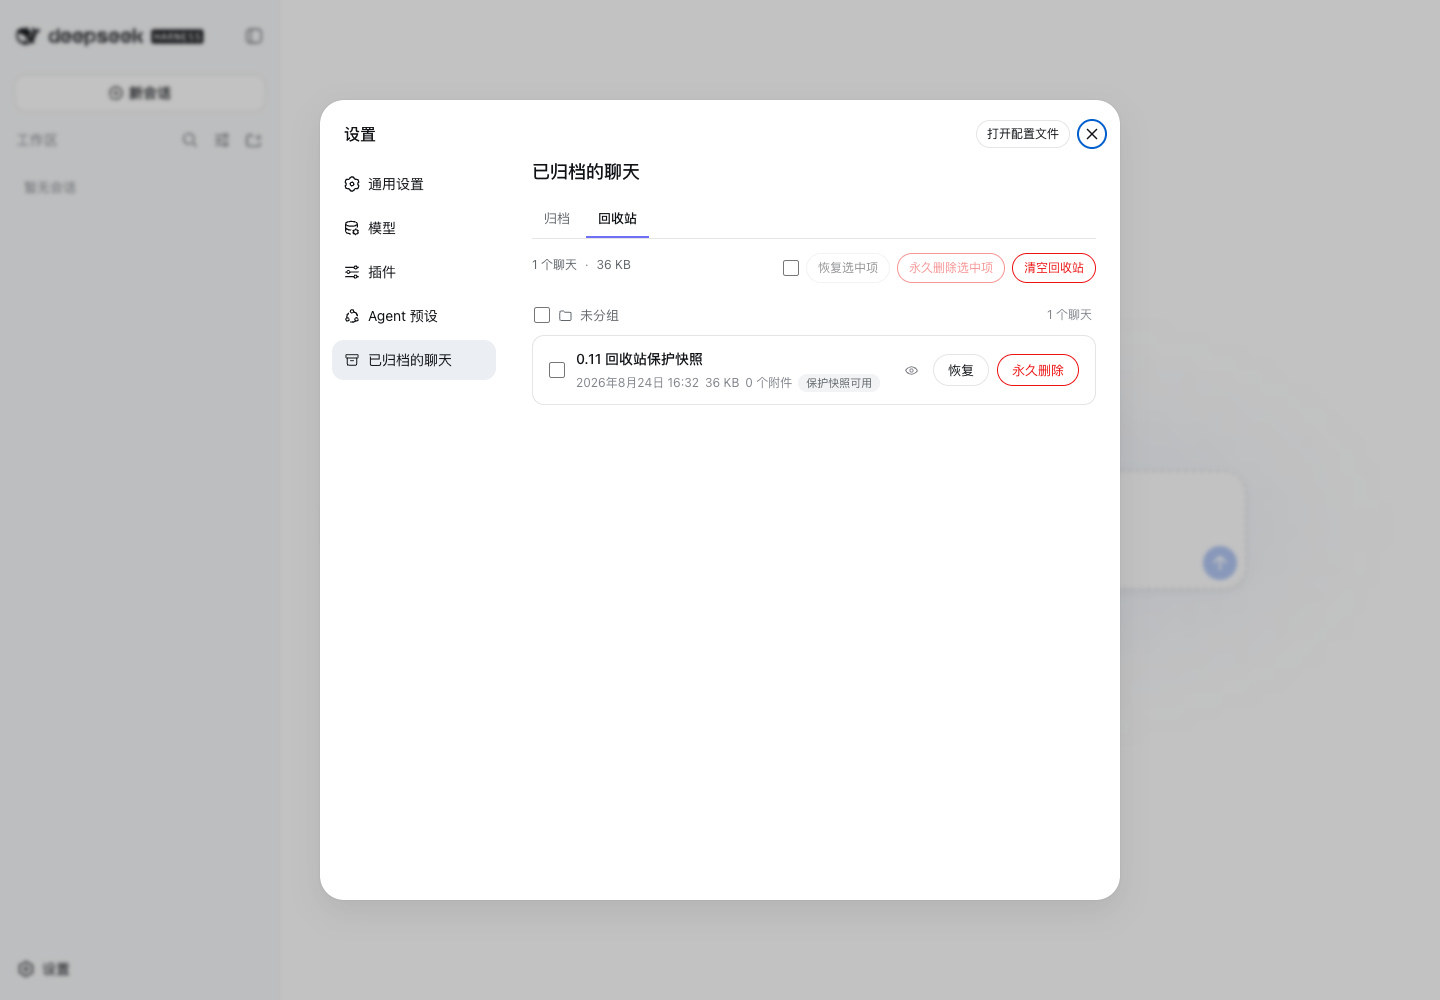
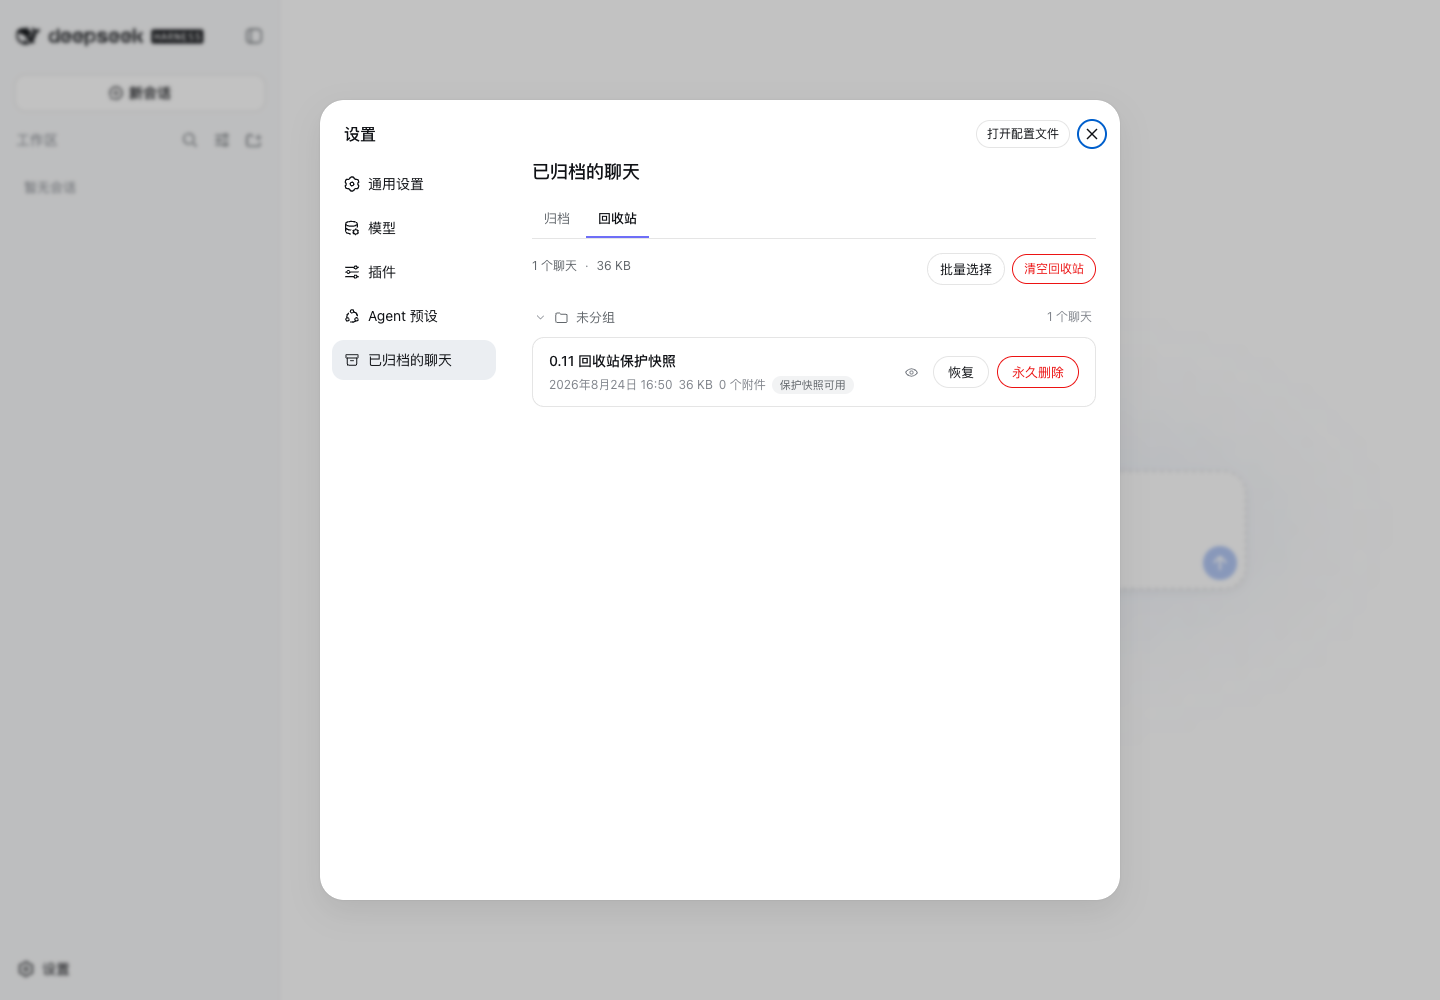
feat: add on-demand recycle selection and folding

diff --git a/lib/client.js b/lib/client.js
@@ -1649,7 +1649,7 @@ window.__ModuleLoader__.load({
 					});
 				}
 
-				function TrashGroupSection({ group, t, selected, busy, mutationsAvailable, onToggleSelected, onRestore, onPurge, onPreview }) {
+				function TrashGroupSection({ group, t, collapsed, onToggleCollapsed, selectionMode, selected, busy, mutationsAvailable, onToggleSelected, onRestore, onPurge, onPreview }) {
 			const ids = group.selectionIds.filter((id) => group.items.find((row) => row.sessionId === id)?.state !== "purge-pending");
 			const selectedInGroup = ids.filter((id) => selected.has(id)).length;
 			const allSelected = ids.length > 0 && selectedInGroup === ids.length;
@@ -1657,26 +1657,37 @@ window.__ModuleLoader__.load({
 			return (0, jsx.jsxs)("section", { className: "dac-group dac-trash-group", children: [
 				(0, jsx.jsxs)("div", { className: "dac-group-head", children: [
 					(0, jsx.jsxs)("div", { className: "dac-group-left", children: [
-						(0, jsx.jsx)(SelectionCheckbox, {
+						selectionMode && (0, jsx.jsx)(SelectionCheckbox, {
 							checked: allSelected,
 							indeterminate: someSelected,
 							disabled: !mutationsAvailable || ids.length === 0 || ids.some((id) => busy[id] === true),
 							ariaLabel: selectProjectLabel(t, group.title ?? t("group.noProject")),
 							onChange: (checked) => onToggleSelected(ids, checked),
 						}),
-						(0, jsx.jsxs)("span", { className: "dac-group-name", children: [(0, jsx.jsx)(IconFolder, {}), group.title ?? t("group.noProject")] }),
+						(0, jsx.jsxs)("button", {
+							type: "button",
+							className: "dac-group-toggle",
+							"aria-expanded": collapsed !== true,
+							"aria-label": collapsed === true ? t("group.expand") : t("group.collapse"),
+							onClick: () => onToggleCollapsed(group.key),
+							children: [
+								(0, jsx.jsx)("span", { className: collapsed === true ? "dac-chev" : "dac-chev open", children: (0, jsx.jsx)(IconChevron, {}) }),
+								(0, jsx.jsx)(IconFolder, {}),
+								(0, jsx.jsx)("span", { children: group.title ?? t("group.noProject") }),
+							],
+						}),
 					] }),
 					(0, jsx.jsx)("span", { className: "dac-count", children: chatsCount(t, group.items.length) }),
 				] }),
-				(0, jsx.jsx)("div", { className: "dac-list", children: group.items.map((row) => {
+				collapsed !== true && (0, jsx.jsx)("div", { className: "dac-list", children: group.items.map((row) => {
 					const title = row.title || t("chat.untitled");
 					const pending = row.state === "purge-pending";
 					const rowBusy = busy[row.sessionId] === true;
 					const trashedMs = typeof row.trashedAt === "string" ? Date.parse(row.trashedAt) : NaN;
 					const attachments = Number.isInteger(row.snapshotAttachmentCount) ? row.snapshotAttachmentCount : 0;
-					return (0, jsx.jsxs)("article", { className: `dac-row dac-trash-row${selected.has(row.sessionId) ? " dac-selected" : ""}`, children: [
+					return (0, jsx.jsxs)("article", { className: `dac-row dac-trash-row${selectionMode && selected.has(row.sessionId) ? " dac-selected" : ""}`, children: [
 						(0, jsx.jsxs)("div", { className: "dac-row-select", children: [
-							(0, jsx.jsx)(SelectionCheckbox, {
+							selectionMode && (0, jsx.jsx)(SelectionCheckbox, {
 								checked: selected.has(row.sessionId),
 								disabled: !mutationsAvailable || pending || rowBusy,
 								ariaLabel: `${t("trash.select")}: ${title}`,
@@ -1899,6 +1910,7 @@ window.__ModuleLoader__.load({
 					const [contentSearch, setContentSearch] = _react.useState({ status: "idle", query: "", hits: [], skipped: [] });
 					const [preview, setPreview] = _react.useState(null);
 					const [previewBusy, setPreviewBusy] = _react.useState(false);
+					const [trashSelectionMode, setTrashSelectionMode] = _react.useState(false);
 					const pageRef = _react.useRef(null);
 			const pageHeadingRef = _react.useRef(null);
 				const actionMenuRef = _react.useRef(null);
@@ -2100,6 +2112,10 @@ window.__ModuleLoader__.load({
 			const toggleTrashSelected = (ids, checked) => {
 				setTrashSelected((current) => setVisibleSelection(current, ids, checked));
 			};
+			const finishTrashSelectionMode = () => {
+				setTrashSelected(new Set());
+				setTrashSelectionMode(false);
+			};
 
 			const restoreFromTrash = async (ids) => {
 				const requested = uniqueSessionIds(ids);
@@ -2114,6 +2130,7 @@ window.__ModuleLoader__.load({
 					if (restored.includes(preview?.session?.id)) closePreview();
 					if (restored.length > 0) {
 						setNotice({ kind: "ok", text: t("trash.restored") });
+						if (trashSelectionMode) finishTrashSelectionMode();
 						await refresh();
 						refreshSidebar?.();
 					}
@@ -2137,7 +2154,10 @@ window.__ModuleLoader__.load({
 					setTrash((current) => ({ ...current, sessions: current.sessions.filter((row) => !purged.includes(row.sessionId)) }));
 					setTrashSelected((current) => setVisibleSelection(current, purged, false));
 					if (purged.includes(preview?.session?.id)) closePreview();
-					if (purged.length > 0) setNotice({ kind: "ok", text: t("trash.purged") });
+					if (purged.length > 0) {
+						setNotice({ kind: "ok", text: t("trash.purged") });
+						if (trashSelectionMode) finishTrashSelectionMode();
+					}
 					if ((result?.failed ?? []).length > 0) setNotice({ kind: "error", text: failureText(t, result.failed) });
 					await loadTrash();
 				} catch (error) {
@@ -2157,7 +2177,10 @@ window.__ModuleLoader__.load({
 					const purged = uniqueSessionIds(result?.purged);
 					setTrash((current) => ({ ...current, sessions: current.sessions.filter((row) => !purged.includes(row.sessionId)) }));
 					setTrashSelected((current) => setVisibleSelection(current, purged, false));
-					if (purged.length > 0) setNotice({ kind: "ok", text: t("trash.purged") });
+					if (purged.length > 0) {
+						setNotice({ kind: "ok", text: t("trash.purged") });
+						if (trashSelectionMode) finishTrashSelectionMode();
+					}
 					if ((result?.failed ?? []).length > 0) setNotice({ kind: "error", text: failureText(t, result.failed) });
 					await loadTrash();
 				} catch (error) {
@@ -2755,15 +2778,21 @@ window.__ModuleLoader__.load({
 								(0, jsx.jsx)("span", { children: formatBytes(trashSnapshotBytes) }),
 							] }),
 							(0, jsx.jsxs)("div", { className: "dac-trash-toolbar-actions", children: [
-								selectableTrashIds.length > 0 && (0, jsx.jsx)(SelectionCheckbox, {
+								trashSelectionMode && selectableTrashIds.length > 0 && (0, jsx.jsx)(SelectionCheckbox, {
 									checked: selectedTrashIds.length === selectableTrashIds.length,
 									indeterminate: selectedTrashIds.length > 0 && selectedTrashIds.length < selectableTrashIds.length,
 									disabled: !trashMutationsAvailable,
 									ariaLabel: t("trash.selectAll"),
 									onChange: (checked) => toggleTrashSelected(selectableTrashIds, checked),
 								}),
-								(0, jsx.jsx)("button", { type: "button", className: "dac-bulk-btn", disabled: selectedTrashIds.length === 0 || selectedTrashBusy || !trashMutationsAvailable, onClick: () => restoreFromTrash(selectedTrashIds), children: t("trash.restoreSelected") }),
-								(0, jsx.jsx)("button", { type: "button", className: "dac-bulk-btn dac-danger", disabled: selectedTrashIds.length === 0 || selectedTrashBusy || !trashMutationsAvailable, onClick: () => askTrashPurge(selectedTrashIds), children: t("trash.purgeSelected") }),
+								trashSelectionMode && (0, jsx.jsx)("button", { type: "button", className: "dac-bulk-btn", disabled: selectedTrashIds.length === 0 || selectedTrashBusy || !trashMutationsAvailable, onClick: () => restoreFromTrash(selectedTrashIds), children: t("trash.restoreSelected") }),
+								trashSelectionMode && (0, jsx.jsx)("button", { type: "button", className: "dac-bulk-btn dac-danger", disabled: selectedTrashIds.length === 0 || selectedTrashBusy || !trashMutationsAvailable, onClick: () => askTrashPurge(selectedTrashIds), children: t("trash.purgeSelected") }),
+								(selectableTrashIds.length > 0 || trashSelectionMode) && (0, jsx.jsx)("button", {
+									type: "button",
+									className: "dac-selection-mode",
+									onClick: trashSelectionMode ? finishTrashSelectionMode : () => setTrashSelectionMode(true),
+									children: t(trashSelectionMode ? "selection.done" : "selection.start"),
+								}),
 								(0, jsx.jsx)("button", { type: "button", className: "dac-bulk-btn dac-danger", disabled: trashIds.length === 0 || !trashMutationsAvailable || trashIds.some((id) => trashBusy[id] === true), onClick: () => askTrashPurge(trashIds, true), children: t("trash.emptyAction") }),
 							] }),
 						] }),
@@ -2775,7 +2804,9 @@ window.__ModuleLoader__.load({
 						notice !== null && notice.kind !== "ok" && (0, jsx.jsxs)("div", { className: "dac-notice", children: [(0, jsx.jsx)("span", { children: notice.text }), notice.action === "undo-trash" && (0, jsx.jsx)("button", { type: "button", className: "dac-notice-action", onClick: () => undoTrashMove(notice.ids), children: t("trash.undo") }), (0, jsx.jsx)("button", { type: "button", "aria-label": t("notice.dismiss"), onClick: () => setNotice(null), children: (0, jsx.jsx)(IconClose, {}) })] }),
 						trash.status === "ready" && trash.sessions.length === 0 && (0, jsx.jsxs)("div", { className: "dac-empty", children: [(0, jsx.jsx)(IconTrash, { size: 40 }), (0, jsx.jsx)("span", { children: t("trash.empty") })] }),
 						...trashGroups.map((group) => (0, jsx.jsx)(TrashGroupSection, {
-							group, t, selected: trashSelected, busy: trashBusy, mutationsAvailable: trashMutationsAvailable,
+							group, t, collapsed: collapsed[`trash:${group.key}`] === true,
+							onToggleCollapsed: (key) => toggleCollapsed(`trash:${key}`),
+							selectionMode: trashSelectionMode, selected: trashSelected, busy: trashBusy, mutationsAvailable: trashMutationsAvailable,
 							onToggleSelected: toggleTrashSelected, onRestore: restoreFromTrash, onPurge: askTrashPurge,
 							onPreview: (row) => openPreview(row, "trash"),
 						}, group.key)),

diff --git a/README.en.md b/README.en.md
@@ -62,7 +62,7 @@ Screenshots 1–7 were captured from 0.9.0 in a local DeepSeek Harness `0.1.0-rc
 - **Compact top-level actions**: common **Import backup** / **Export backup** actions are direct, while the low-frequency destructive action lives under **More**. The page stays focused on DSH archive management without a persistent source selector or redundant menus.
 - **On-demand multi-select**: checkboxes stay hidden by default and appear only after clicking **Select multiple**. Select individual chats, every visible result, or an entire project; the selection bar can export, unarchive, or move the chosen chats to the Recycle Bin, while selections hidden by another filter remain intact.
 - **Unarchive** a single chat or a whole project group from the group's `⋯` menu — restored chats reappear in the sidebar immediately.
-- **Archived / Recycle Bin tabs**: recycled rows stay grouped by their original workspace and show trash time, snapshot size, attachment count, and `trashed` / `degraded` / `purge-pending` state. Recycle selection is independent from archive selection.
+- **Archived / Recycle Bin tabs**: recycled rows stay grouped by their original workspace, each group can collapse independently, and rows show trash time, snapshot size, attachment count, and `trashed` / `degraded` / `purge-pending` state. Checkboxes stay hidden until **Select multiple** is activated.
 - **Automatic protection snapshots**: moving a session captures all conversation events plus verified stored-image bytes before the recycle record commits. One current protection snapshot is kept per session; 0.11 does not provide historical retention or conversation-tree restoration.
 - **Two-level restore**: when the original session is intact, restore only removes the recycle marker and does not rewrite persistence. If the original is missing, the plugin falls back to the validated session-and-attachment snapshot through public writer capabilities, never overwriting an existing ID.
 - **Explicit permanent purge**: only the Recycle Bin exposes permanent delete and empty. The plugin records durable `purge-pending` crash intent before deleting the original and snapshot; interrupted purges retry at startup.

diff --git a/README.md b/README.md
@@ -62,7 +62,7 @@ dsh plugin --profile web update dsh-archived-chats
 - **紧凑顶部操作**：常用的 **导入备份** / **导出备份** 直接可用，低频危险操作收纳在 **更多**；页面专注于 DSH 归档管理，不常驻来源选择器或冗余菜单。
 - **按需多选**：复选框默认隐藏，点击 **批量选择** 后才显示；可逐条选择、选择当前筛选结果或整个项目。选中后可一次导出、取消归档或移至回收站，隐藏在其他筛选结果中的选择不会丢失。
 - **取消归档**单个聊天，或从分组的 `⋯` 菜单整组取消——恢复的聊天会立刻回到侧边栏。
-- **归档 / 回收站双标签**：回收站按原工作区分组，显示移入时间、快照大小、附件数和 `trashed` / `degraded` / `purge-pending` 状态；其选择与归档页完全独立。
+- **归档 / 回收站双标签**：回收站按原工作区分组并可独立折叠，显示移入时间、快照大小、附件数和 `trashed` / `degraded` / `purge-pending` 状态；复选框默认隐藏，点击 **批量选择** 后才显示。
 - **自动保护快照**：移入回收站前保存完整会话事件和经校验的图片附件字节。每个会话只保留一个当前保护快照；本版不提供按时间的多代保留或会话树恢复。
 - **两级恢复**：原会话仍完好时只移除回收标记，不重写持久层；原件丢失时才使用已验证快照和官方写入能力回退恢复，且绝不覆盖同 ID 会话。
 - **明确的永久删除**：仅回收站提供永久删除与清空。插件先写入 `purge-pending` 崩溃恢复意图，再删除原会话和保护快照；中途失败会在下次启动重试。
